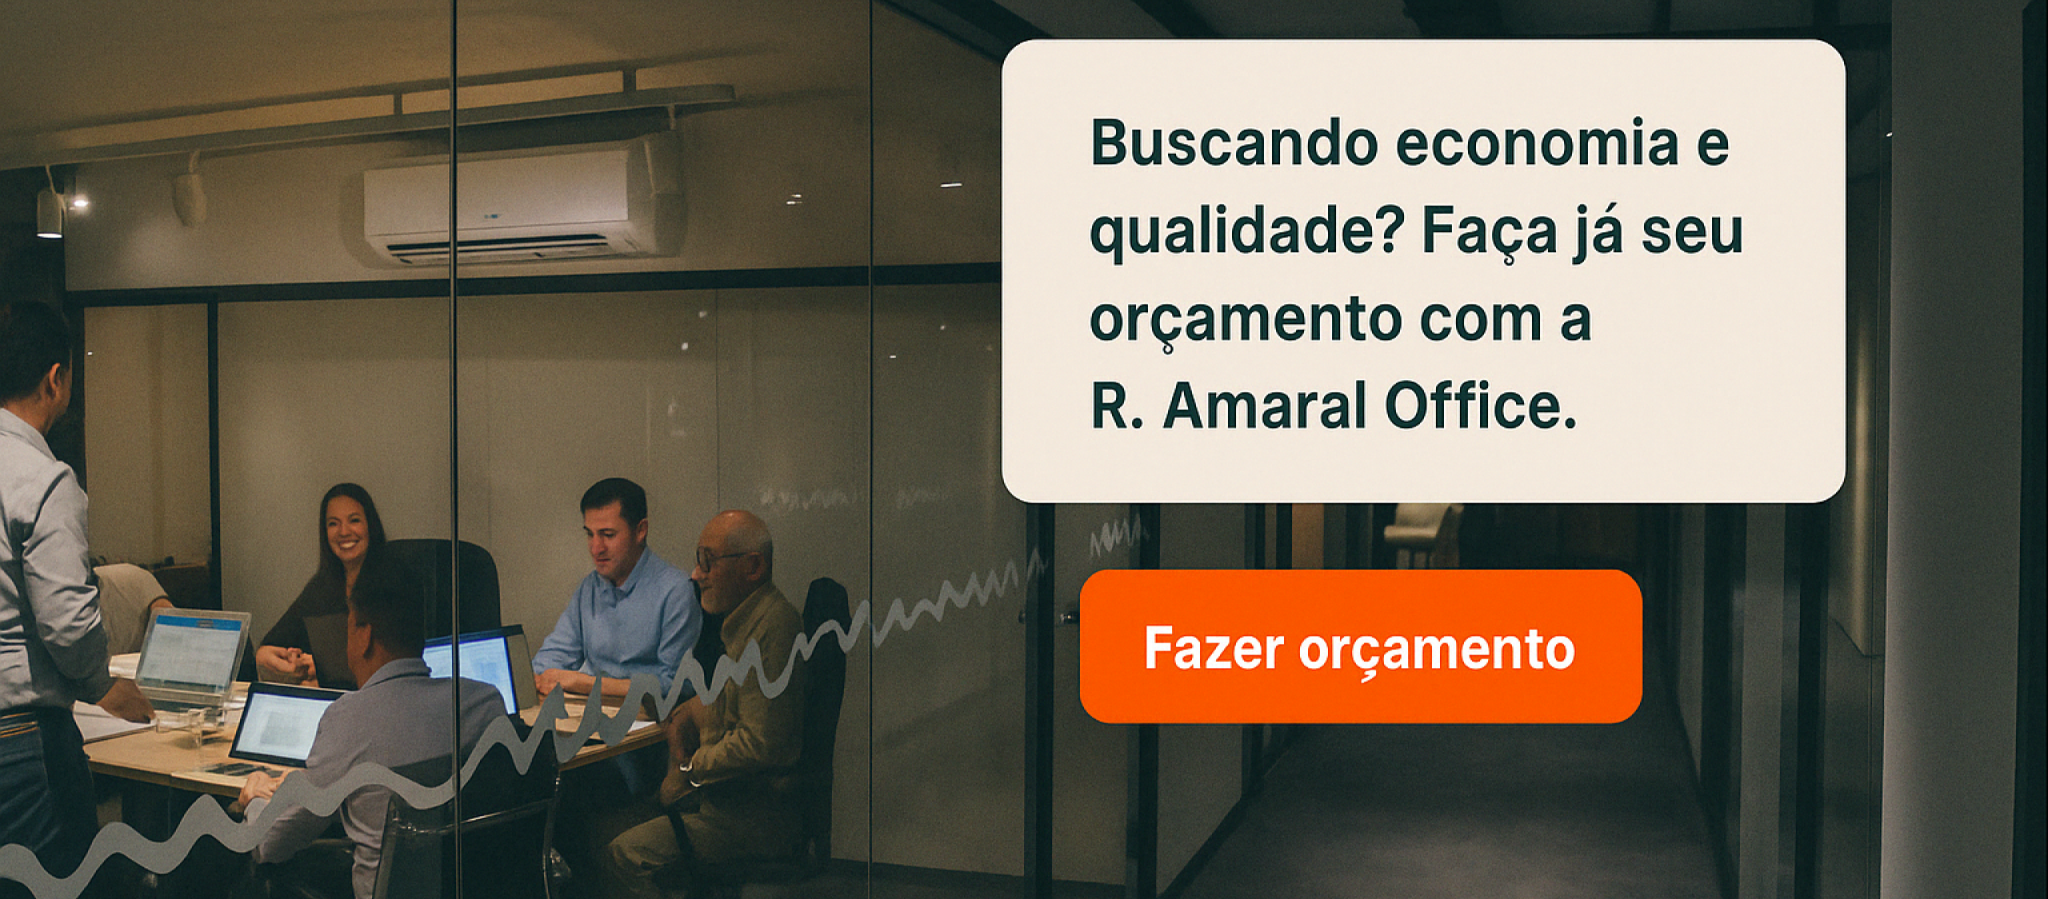
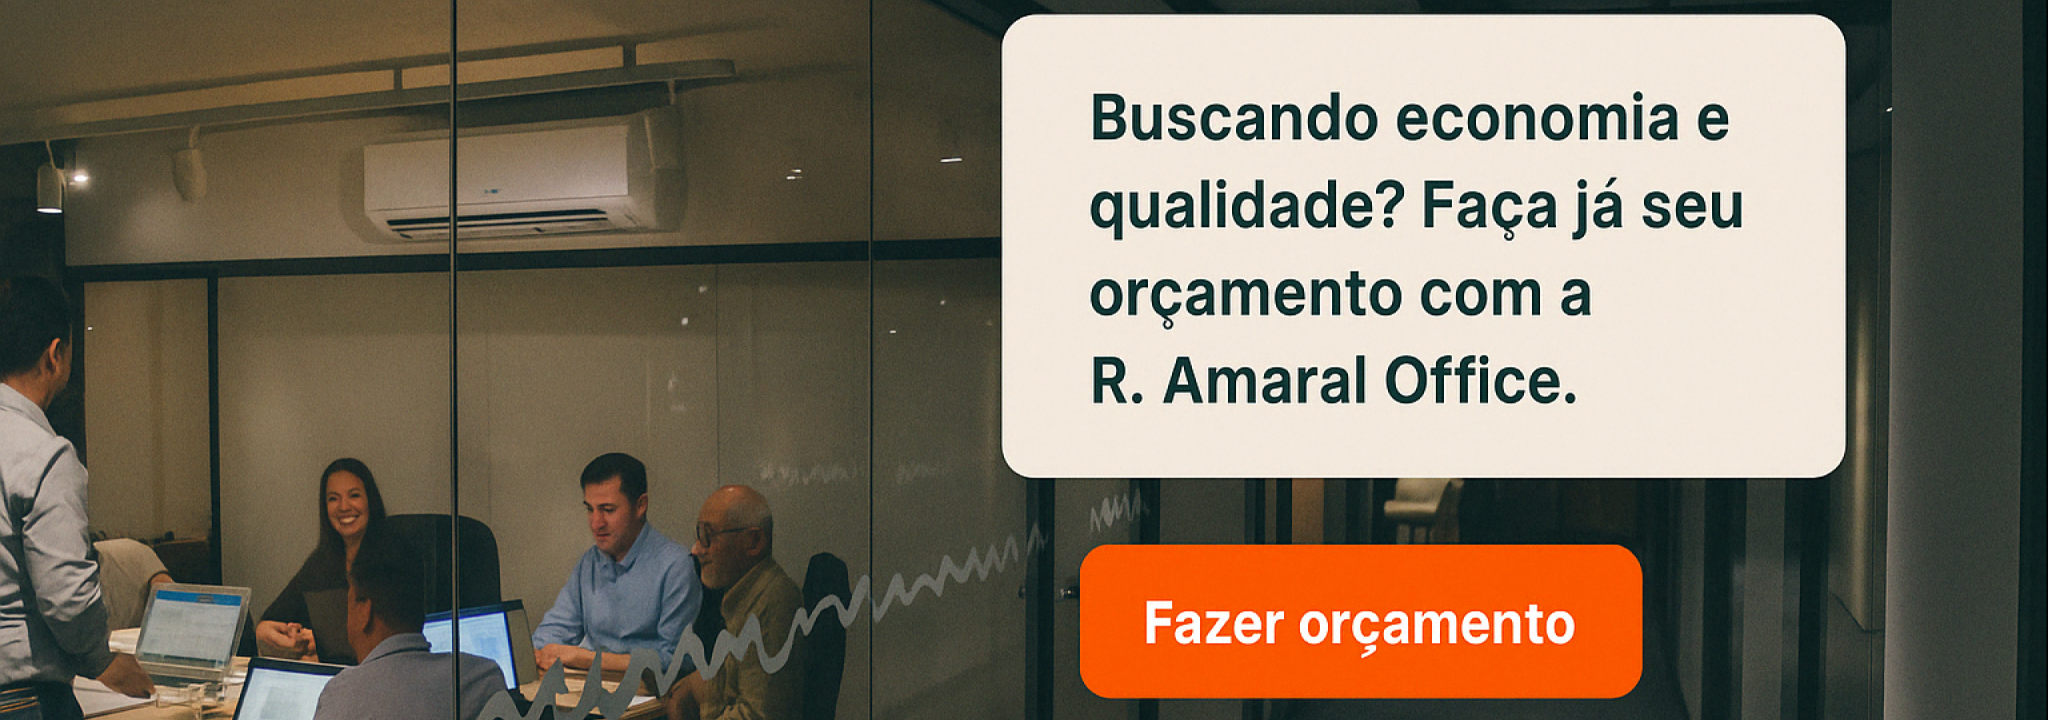
Landing page e header fixo

diff --git a/aula-front/src/pages/Home.tsx b/aula-front/src/pages/Home.tsx
@@ -109,71 +109,71 @@ const Home = () => {
 
       <SectionTitle>Depoimentos de clientes</SectionTitle>
       <Testimonials>
-        <Testimonial>
-          <div className="profile">
-            <img src={avatar1} alt="Lucas Andrade" />
-            <h4>Lucas Andrade</h4>
-          </div>
-          <p>"A Amaral Office transformou nosso escritório com móveis confortáveis e modernos. Excelente experiência!"</p>
-        </Testimonial>
-        <Testimonial>
-          <div className="profile">
-            <img src={avatar2} alt="Fernanda Lopes" />
-            <h4>Fernanda Lopes</h4>
-          </div>
-          <p>"Produtos de alta qualidade e atendimento excelente. A entrega foi rápida e os preços são justos."</p>
-        </Testimonial>
-        <Testimonial>
-          <div className="profile">
-            <img src={avatar3} alt="Mariana Queiroz" />
-            <h4>Mariana Queiroz</h4>
-          </div>
-          <p>"Recomendo demais! Encontrei tudo que precisava para meu home office com ótimo custo-benefício."</p>
-        </Testimonial>
-      </Testimonials>
+  <Testimonial>
+    <div className="profile">
+      <img src={avatar1} alt="Lucas Andrade" />
+      <div>
+        <h4>Lucas Andrade</h4>
+        <Stars>★★★★★</Stars>
+      </div>
+    </div>
+    <p>"A Amaral Office transformou nosso escritório com móveis confortáveis e modernos. Excelente experiência!"</p>
+  </Testimonial>
+  <Testimonial>
+    <div className="profile">
+      <img src={avatar2} alt="Fernanda Lopes" />
+      <div>
+        <h4>Fernanda Lopes</h4>
+        <Stars>★★★★★</Stars>
+      </div>
+    </div>
+    <p>"Produtos de alta qualidade e atendimento excelente. A entrega foi rápida e os preços são justos."</p>
+  </Testimonial>
+  <Testimonial>
+    <div className="profile">
+      <img src={avatar3} alt="Mariana Queiroz" />
+      <div>
+        <h4>Mariana Queiroz</h4>
+        <Stars>★★★★★</Stars>
+      </div>
+    </div>
+    <p>"Recomendo demais! Encontrei tudo que precisava para meu home office com ótimo custo-benefício."</p>
+  </Testimonial>
+</Testimonials>
+
     </HomeContainer>
   );
 };
 
 const HomeContainer = styled.div`
   background-color: #f4f4f4;
-  padding: 0 4rem 2rem 4rem;  // tiramos o padding-top
+  padding: 0 4rem 2rem 4rem;
   box-sizing: border-box;
+
+  @media (max-width: 768px) {
+    padding: 0 1rem 2rem 1rem;
+  }
 `;
 
-
-const Banner = styled(Link)`
-  position: relative;
-  left: 50%;
-  transform: translateX(-50%);
-  width: 100vw;
-  overflow: hidden;
-  margin: 0;
-  padding: 0;
-  display: block;
-`;
 
 
 const BannerImage = styled.img`
-  width: 100%;
-  height: 40rem; // ou o valor que quiser
+  width: 100vw;
+  aspect-ratio: 16 / 5; /* ou 3 / 1, ajuste conforme desejado */
   object-fit: cover;
   object-position: center;
   display: block;
 `;
 
 
-
 const BannerWrapper = styled(Link)`
-  display: block;
+  position: relative;
   width: 100vw;
-  margin-left: calc(-50vw + 50%); /* Centraliza usando vw */
+  max-width: 100vw;
+  margin-left: calc(-50vw + 50%);
   overflow: hidden;
+  display: block;
 `;
-
-
-
-
 
 const SectionTitle = styled.h2`
   font-size: 1.6rem;
@@ -235,10 +235,14 @@ const CarouselItem = styled(Link)`
 
 const Categories = styled.div`
   display: flex;
-  justify-content: center;
+  justify-content: space-between;
+  flex-wrap: wrap;
   gap: 2rem;
   margin: 2.5rem 0 3rem;
-  flex-wrap: wrap;
+
+  @media (max-width: 768px) {
+    justify-content: center;
+  }
 `;
 
 const CategoryButton = styled(Link)`
@@ -249,7 +253,8 @@ const CategoryButton = styled(Link)`
   background-color: #ffffff;
   border-radius: 1rem;
   padding: 2rem 1.5rem;
-  width: 160px;
+  width: 280px;
+  height: 280px;
   box-shadow: 0 2px 8px rgba(0, 0, 0, 0.1);
   text-align: center;
   text-decoration: none;
@@ -262,7 +267,7 @@ const CategoryButton = styled(Link)`
   }
 
   img {
-    width: 80px;
+    width: 120px;
     height: auto;
     object-fit: contain;
     margin-bottom: 1rem;
@@ -271,9 +276,10 @@ const CategoryButton = styled(Link)`
   span {
     font-weight: bold;
     color: #2b3f42;
-    font-size: 1rem;
+    font-size: 1.2rem;
   }
 `;
+
 
 const Testimonials = styled.div`
   display: flex;
@@ -313,6 +319,12 @@ const Testimonial = styled.div`
     font-size: 0.95rem;
     color: #333;
   }
+`;
+
+const Stars = styled.div`
+font-size: 1.2rem;
+color: #FFD700; /* cor dourada para estrelas */
+margin-top: 0.25rem;
 `;
 
 export default Home;

diff --git a/aula-front/src/Header.css b/aula-front/src/Header.css
@@ -5,8 +5,19 @@ a {
   background-color: #243436;
   color: white;
   font-family: "Playfair Display" , serif;
+  position: fixed;
+  top: 0;
+  left: 0;
+  width: 100%;
+  z-index: 1000;
 }
-
+body {
+  padding-top: 101px; /* ajuste conforme a altura real do seu header */
+@media (max-width: 768px) {
+  padding-top: 164px;
+    
+  }
+}
 .top-bar {
   display: flex;
   align-items: center;
@@ -75,3 +86,39 @@ a {
   text-decoration: underline;
 }
 
+@media (max-width: 768px) {
+  .top-bar {
+    flex-wrap: wrap;
+  }
+
+  .search-bar {
+    flex: 1 1 100%;
+    min-width: 200px;
+    margin-top: 0.5rem;
+  }
+
+  .right-section {
+    flex-wrap: wrap;
+    justify-content: flex-end;
+    width: 100%;
+  }
+
+  .nav-bar {
+    flex-wrap: wrap;
+    gap: 1rem;
+  }
+}
+@media (max-width: 768px) {
+  .search-bar {
+    max-width: 12px;
+    font-size: 0.8rem;
+  }
+
+  .logo {
+    height: 2rem;
+  }
+
+  .cart {
+    font-size: 1.2rem; /* ou ajuste o SVG */
+  }
+}

diff --git a/aula-front/src/Footer.css b/aula-front/src/Footer.css
@@ -12,9 +12,9 @@
 
 .footer-content {
   display: flex;
-  align-items: stretch;
-  flex-wrap: wrap;
-  justify-content: space-between;
+ 
+
+  justify-content: center;
   align-items: flex-start;
   width: 100%;
   gap: 2rem;
